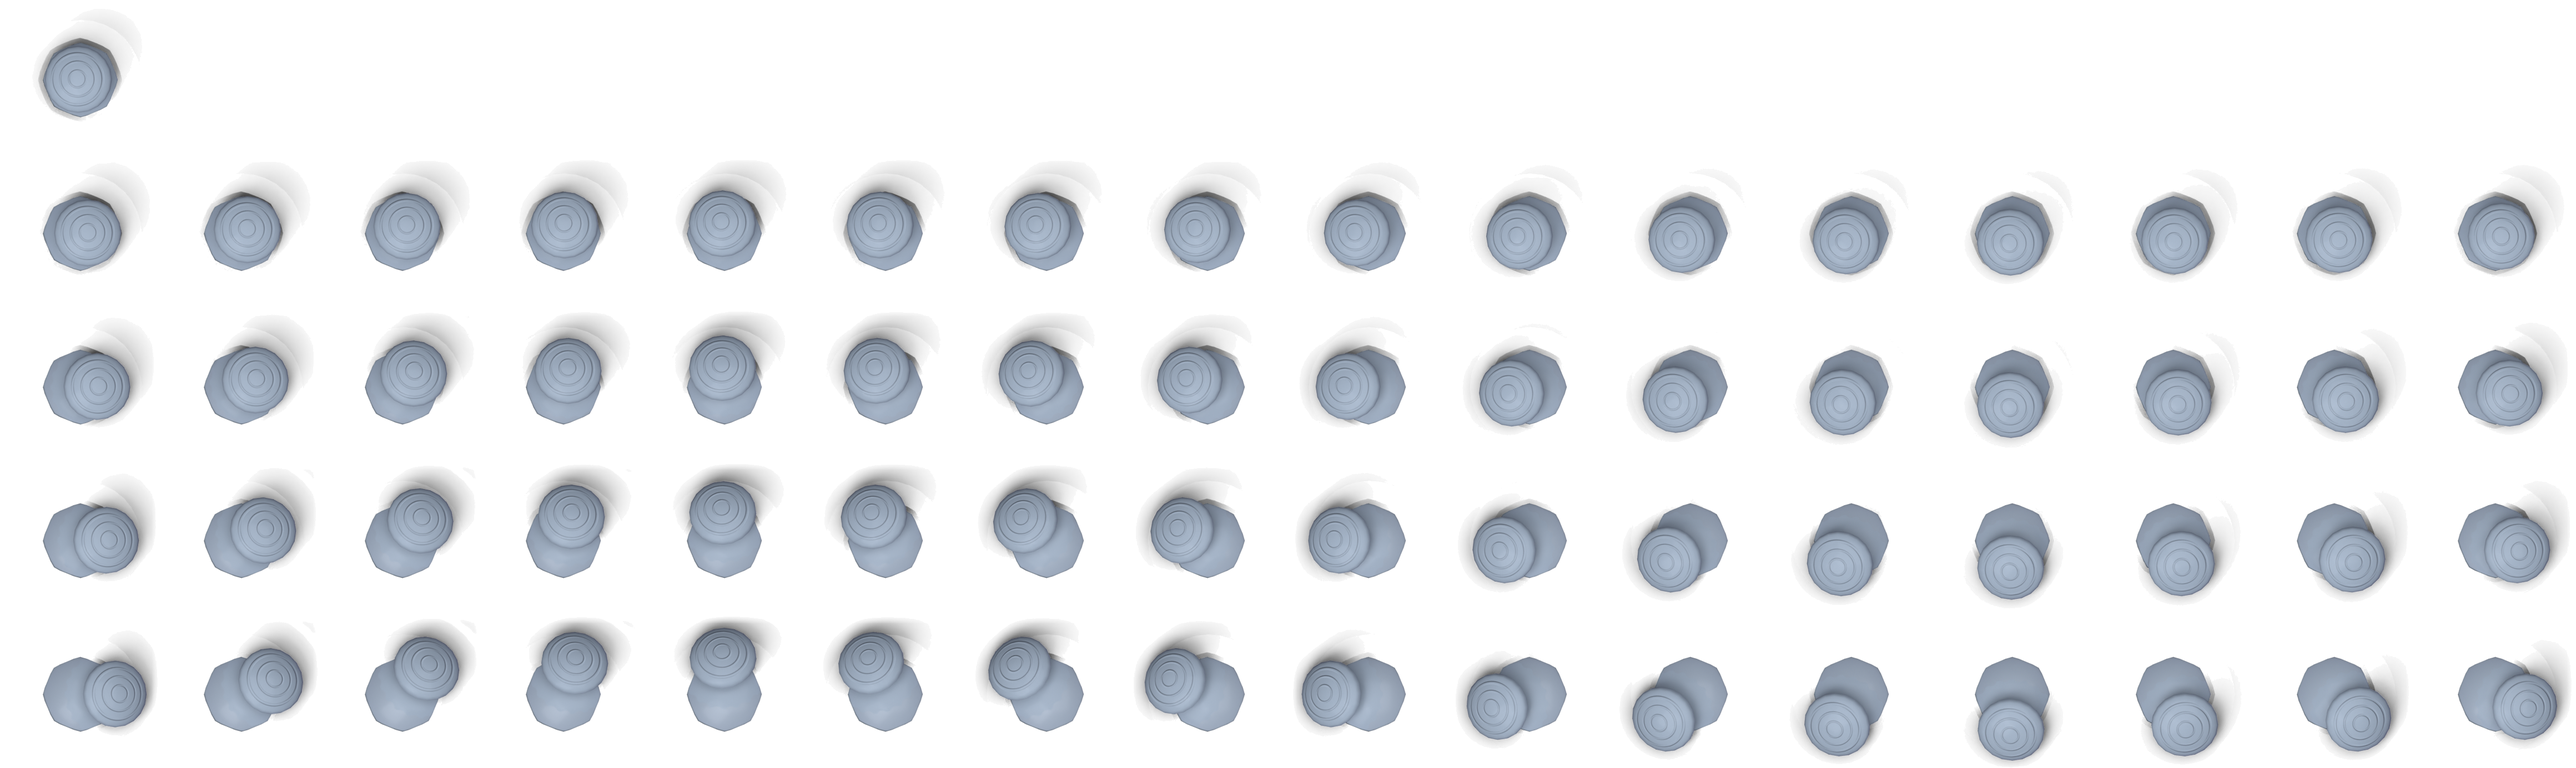
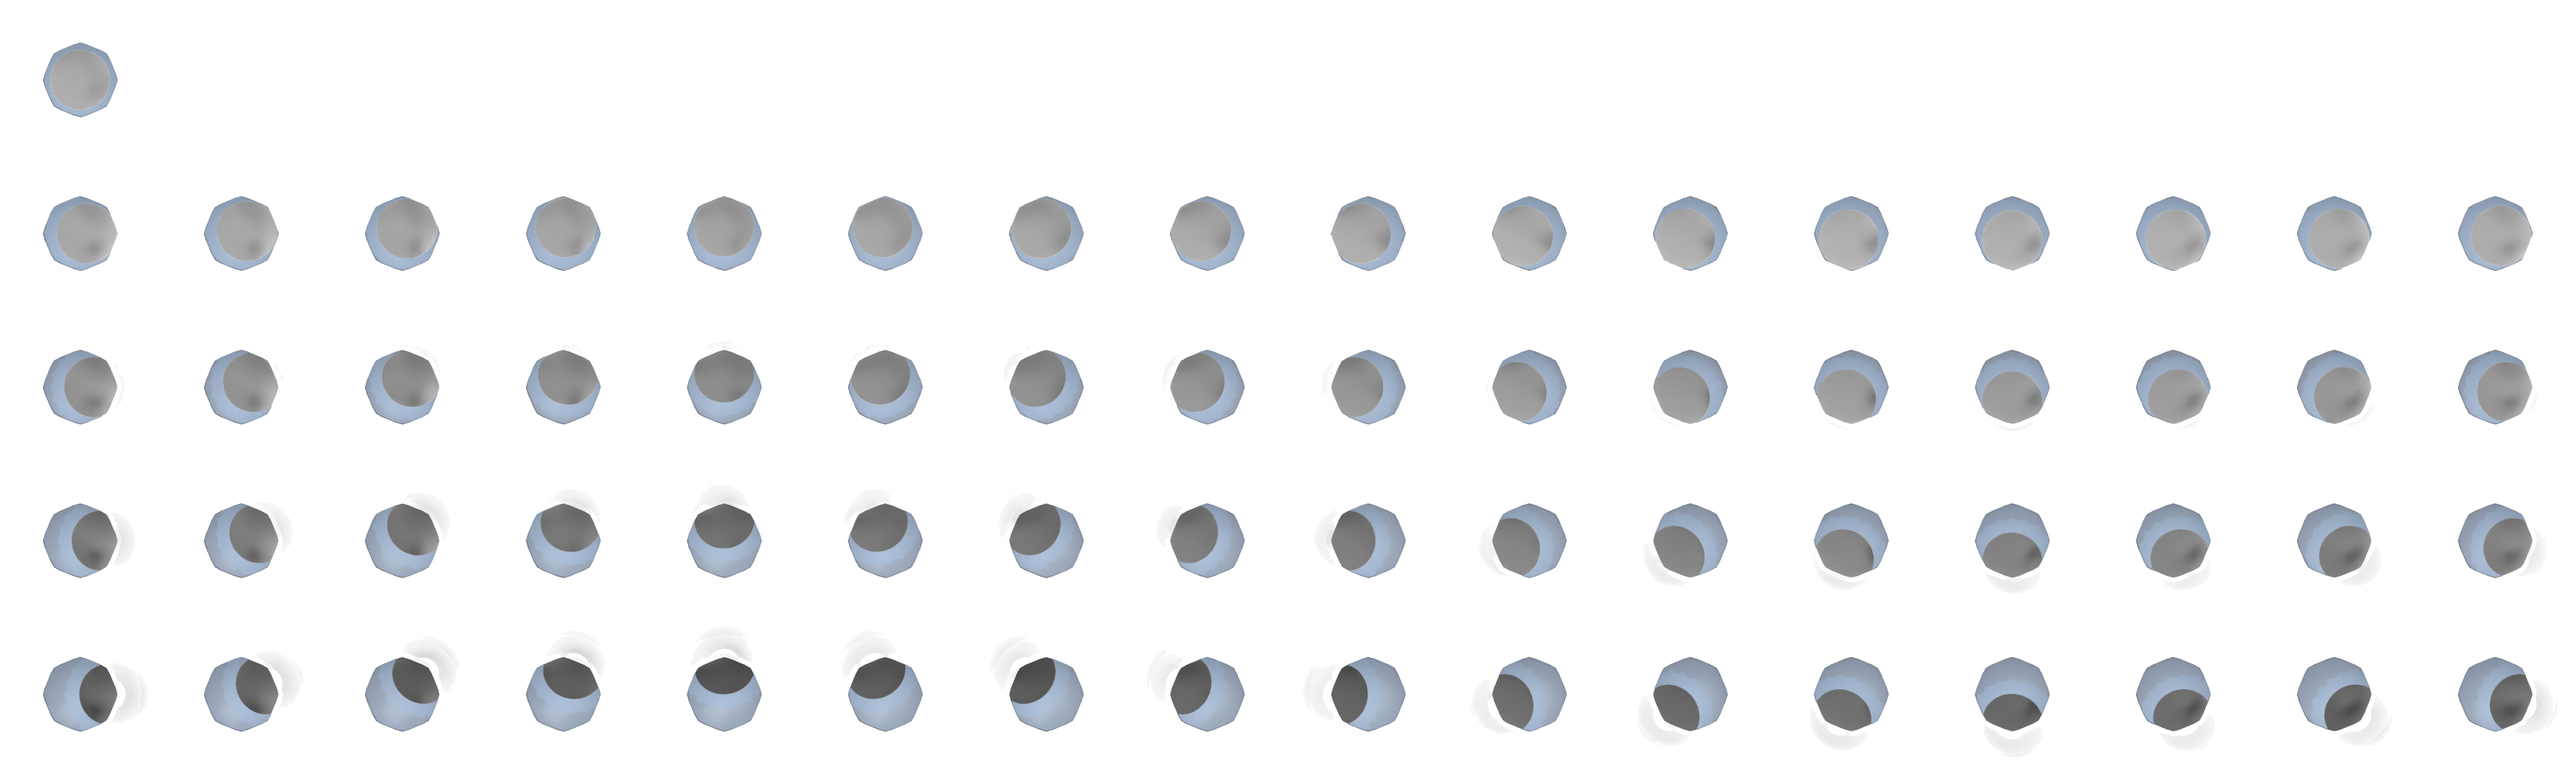
Settings: sticks glide with no wiggle; the red ring stays on the cap's top
The stick frames are rendered in two layers: the dome below the cap (with
the shadows), which turns in place, and the cap alone, with its shadow.
Settings blends the up to four frames round the stick's position in each
layer, the dome where it is and the cap moved so that its top (measured in
the render: kStickTops) lands on one point. Before, the nearest frame was
moved as a whole, so the dome jumped by up to 15 pixels at each change of
frame and the cap stepped every 22.5 degrees.

render_top.py writes both layers and sticks/tops.txt ("sticks-tops" only
measures); pack_sticks.ps1 packs both sheets (top_stick_cap_*.png,
resources 106 and 107) and prints kStickTops, and now writes into its own
folder under Windows PowerShell 5.1 too.

diff --git a/tools/padconfig/controller_view.cpp b/tools/padconfig/controller_view.cpp
@@ -124,33 +124,6 @@ REAL gate_at(REAL angle) {
     return std::cos(kSector) / std::cos(off - kSector);
 }
 
-// The geometry the stick frames were rendered with (art/render_top.py): the camera of the picture from above (looking
-// straight down from kCameraZ over (kCameraX, kCameraY), kFocal pixels of focal length, the picture 1000 x 659), and
-// each stick's root (the centre of its dome, where its bone turns) and the height of its cap's top, in model units.
-// The cap turns up to kMostTilt degrees at a notch.
-constexpr REAL kCameraX = 0.08f, kCameraY = -4.19f, kCameraZ = 195.5f, kFocal = 19.35f * (195.5f - 22.0f);
-constexpr REAL kMostTilt = 25.0f;
-struct StickGeometry {
-    REAL root_x, root_y, root_z, top_z;
-};
-constexpr StickGeometry kStickGeometry[] = {{-15.0f, 0.0f, 14.68f, 23.92f}, {7.57f, -11.25f, 13.2f, 21.23f}};
-
-// Where a stick's cap top is in the picture from above (its pixels) with the stick at (x, y) in its gate: the top turned
-// on the root towards (x, y) by kMostTilt degrees for each 1 of the way, then seen by the camera.
-PointF stick_top(int stick, REAL x, REAL y) {
-    const StickGeometry& s = kStickGeometry[stick];
-    const REAL h = s.top_z - s.root_z, length = std::sqrt(x * x + y * y);
-    REAL px = 0.0f, py = 0.0f, pz = h;
-    if (length > 0.0f) {
-        const REAL turn = kMostTilt * length * kPi / 180.0f;
-        px = x / length * h * std::sin(turn);
-        py = y / length * h * std::sin(turn);
-        pz = h * std::cos(turn);
-    }
-    const REAL depth = kCameraZ - (s.root_z + pz);
-    return PointF(500.0f + (s.root_x + px - kCameraX) * kFocal / depth, 329.5f - (s.root_y + py - kCameraY) * kFocal / depth);
-}
-
 // Where things are, in view units: the label columns `f` times their normal width (and the labels f times their normal
 // size) on both sides of the pictures, the whole scaled by `scale` to the area and centred across it.
 struct Geometry {
@@ -249,66 +222,100 @@ struct Painter {
         return at(tilted_rect(m), h->cx, h->cy);
     }
 
-    // A stick cap as the stick is held (x, y: in its gate, stick_in_gate()): the frame of its sheet nearest that
-    // position, moved so that the cap's top is exactly where the stick puts it (computed from the render's geometry), so
-    // the top glides with the stick and never jumps when the frame changes; with a red ring like a pressed button's round
-    // its top, stronger the further it is tilted.
+    // A stick cap as the stick is held (x, y: in its gate, stick_in_gate()). The sheets have frames at 4 tilts in 16
+    // directions; the stick is mostly between them, so the (up to) four frames round it are blended by how near each is:
+    // first the dome below the cap, where it is (it turns in place), then the cap, every frame moved so that its top
+    // (kStickTops, measured in the render) lands on the same point. The top glides with the stick and the shading turns
+    // smoothly, with no step from one frame to the next and nothing doubled. A red ring
+    // like a pressed button's rounds the top, stronger the further the stick is tilted.
     void draw_cap(const CapArt& cap, int index, float x, float y) {
-        Bitmap* sheet = art(cap.id);
+        Bitmap* dome_sheet = art(cap.id);
+        Bitmap* cap_sheet = art(cap.cap_id);
         Bitmap* picture = art(101);
-        if (sheet == nullptr || picture == nullptr) return;
-        // The frame nearest the stick; the one drawn last is kept until another is clearly nearer, so a stick resting
-        // between two frames does not flicker from one to the other.
-        const auto frame_tilt = [](int ring, int direction, REAL& fx, REAL& fy) {
-            const REAL fa = direction * 2.0f * kPi / kStickDirections;
-            const REAL fl = static_cast<REAL>(ring) / kStickRings * gate_at(fa);
-            fx = fl * std::cos(fa);
-            fy = fl * std::sin(fa);
-        };
+        if (dome_sheet == nullptr || cap_sheet == nullptr || picture == nullptr) return;
         const REAL length = std::sqrt(x * x + y * y);
-        int ring = 0, direction = 0;
+        // Where the stick is between the frames: tilt in rings (0 to kStickRings), direction in frame steps.
+        REAL ring_at = 0.0f, direction_at = 0.0f;
         if (length > 0.0f) {
-            const REAL angle = std::atan2(y, x);
-            ring = std::clamp(static_cast<int>(std::lround(length / gate_at(angle) * kStickRings)), 0, kStickRings);
-            direction = static_cast<int>(std::lround(angle / (2.0f * kPi) * kStickDirections));
-            direction = ((direction % kStickDirections) + kStickDirections) % kStickDirections;
+            REAL angle = std::atan2(y, x);
+            if (angle < 0.0f) angle += 2.0f * kPi;
+            ring_at = std::clamp(length / gate_at(angle) * kStickRings, 0.0f, static_cast<REAL>(kStickRings));
+            direction_at = angle / (2.0f * kPi) * kStickDirections;
         }
-        static int last_ring[2] = {}, last_direction[2] = {};
-        {
-            REAL bx, by, lx, ly;
-            frame_tilt(ring, direction, bx, by);
-            frame_tilt(last_ring[index], last_direction[index], lx, ly);
-            const REAL best = std::hypot(x - bx, y - by), kept = std::hypot(x - lx, y - ly);
-            if (kept < best + 0.05f) {
-                ring = last_ring[index];
-                direction = last_direction[index];
-            }
-            if (ring == 0) direction = 0;
-            last_ring[index] = ring;
-            last_direction[index] = direction;
+        const int r0 = std::min(static_cast<int>(ring_at), kStickRings - 1), d0 = static_cast<int>(direction_at);
+        const REAL tr = ring_at - r0, td = direction_at - d0;
+        struct Frame {
+            int ring, direction;
+            REAL weight;
+        };
+        Frame frames[4];
+        int count = 0;
+        const auto add = [&](int ring, int direction, REAL weight) {
+            if (weight <= 1.0f / 256.0f) return;
+            direction = ring == 0 ? 0 : direction % kStickDirections;
+            for (int i = 0; i < count; ++i)
+                if (frames[i].ring == ring && frames[i].direction == direction) {
+                    frames[i].weight += weight;
+                    return;
+                }
+            frames[count++] = {ring, direction, weight};
+        };
+        add(r0, d0, (1.0f - tr) * (1.0f - td));
+        add(r0, d0 + 1, (1.0f - tr) * td);
+        add(r0 + 1, d0, tr * (1.0f - td));
+        add(r0 + 1, d0 + 1, tr * td);
+        if (count == 0) add(0, 0, 1.0f);
+        std::sort(frames, frames + count, [](const Frame& a, const Frame& b) { return a.weight > b.weight; });
+        // The top now: the frames' own tops, blended the same way.
+        const auto top_of = [&](const Frame& f) {
+            const float* p = kStickTops[index][f.ring][f.direction];
+            return PointF(p[0], p[1]);
+        };
+        REAL total = 0.0f;
+        PointF now(0.0f, 0.0f);
+        for (int i = 0; i < count; ++i) {
+            const PointF p = top_of(frames[i]);
+            now.X += p.X * frames[i].weight;
+            now.Y += p.Y * frames[i].weight;
+            total += frames[i].weight;
         }
-        REAL fx, fy;
-        frame_tilt(ring, direction, fx, fy);
-        // Where the cap's top is in the picture's pixels: now, and in the frame drawn.
-        const PointF now = stick_top(index, x, y), in_frame = stick_top(index, fx, fy);
+        now.X /= total;
+        now.Y /= total;
         const REAL art_w = static_cast<REAL>(picture->GetWidth()), art_h = static_cast<REAL>(picture->GetHeight());
-        const REAL cell_w = static_cast<REAL>(sheet->GetWidth()) / kStickDirections;
-        const REAL cell_h = static_cast<REAL>(sheet->GetHeight()) / (kStickRings + 1);
+        const REAL cell_w = static_cast<REAL>(cap_sheet->GetWidth()) / kStickDirections;
+        const REAL cell_h = static_cast<REAL>(cap_sheet->GetHeight()) / (kStickRings + 1);
         const RectF r = top_rect(m);
         const REAL sx = r.Width / art_w, sy = r.Height / art_h;  // the picture's pixels to view units
-        // A frame's size from the sheet itself, at the picture's scale, so a sheet rendered again is never drawn at
-        // another size than its own.
-        const RectF box(r.X + (cap.x * art_w + now.X - in_frame.X) * sx, r.Y + (cap.y * art_h + now.Y - in_frame.Y) * sy,
-                        cell_w * sx, cell_h * sy);
-        g.DrawImage(sheet, box, direction * cell_w, ring * cell_h, cell_w, cell_h, UnitPixel);
+        // The heaviest frame opaque, each next one over it by its share of the weight drawn so far: together, each frame
+        // by its weight. A frame's size comes from the sheet itself, at the picture's scale.
+        const auto blend = [&](Bitmap* sheet, bool on_top) {
+            REAL drawn = 0.0f;
+            for (int i = 0; i < count; ++i) {
+                const Frame& f = frames[i];
+                drawn += f.weight;
+                const PointF own = top_of(f);
+                const REAL dx = on_top ? now.X - own.X : 0.0f, dy = on_top ? now.Y - own.Y : 0.0f;
+                const RectF box(r.X + (cap.x * art_w + dx) * sx, r.Y + (cap.y * art_h + dy) * sy, cell_w * sx, cell_h * sy);
+                const REAL source_x = f.direction * cell_w, source_y = f.ring * cell_h;
+                if (i == 0) {
+                    g.DrawImage(sheet, box, source_x, source_y, cell_w, cell_h, UnitPixel);
+                    continue;
+                }
+                ColorMatrix fade = {{{1, 0, 0, 0, 0}, {0, 1, 0, 0, 0}, {0, 0, 1, 0, 0}, {0, 0, 0, f.weight / drawn, 0}, {0, 0, 0, 0, 1}}};
+                ImageAttributes attributes;
+                attributes.SetColorMatrix(&fade);
+                g.DrawImage(sheet, box, source_x, source_y, cell_w, cell_h, UnitPixel, &attributes);
+            }
+        };
+        blend(dome_sheet, false);
+        blend(cap_sheet, true);
         if (length == 0.0f) return;
         const REAL amount = std::min(1.0f, length);
         const REAL radius = r.Width * cap.top;
         const PointF top(r.X + now.X * sx, r.Y + now.Y * sy);
         Pen ring_pen(Color(static_cast<BYTE>(90 + 120 * amount), 235, 45, 35), 3.0f);
         g.DrawEllipse(&ring_pen, top.X - radius, top.Y - radius, radius * 2.0f, radius * 2.0f);
-    }
-    void draw_pictures() {
+    }    void draw_pictures() {
         g.SetInterpolationMode(InterpolationModeHighQualityBicubic);
         g.SetPixelOffsetMode(PixelOffsetModeHalf);
         // Still sticks: the whole picture. A tilted one: the body without its caps, and the caps where the sticks are.

diff --git a/tools/padconfig/art/render_top.py b/tools/padconfig/art/render_top.py
@@ -170,7 +170,9 @@ others = [o for o in scene.objects if o.type == 'MESH' and o not in caps.values(
 # only in the area round the stick: sticks/<main|c>_0.png (the middle) and sticks/<main|c>_<ring>_<direction>.png. The
 # rest of the controller is a shadow catcher: not drawn, but it hides what tilts under the shell, and the cap's shadow
 # on it is in the frame (drawn over the body without caps, the stick casts its shadow as it moves).
-# "sticks-test": a few of those frames only.
+# Each frame in two layers: <key>_<ring>_<direction>.png the dome and the shadows, cap_<...>.png the cap alone; and
+# sticks/tops.txt. "sticks-test": a few of those frames only. "sticks-tops": no render; writes sticks/tops.txt, where the top of the cap
+# (its middle, at its highest point) is in the picture's pixels in each frame, for art/hotspots.inc (kStickTops).
 DIRECTIONS, RINGS, MOST_TILT = 16, 4, 25.0
 
 def dome_centre(cap):
@@ -254,6 +256,18 @@ def stick_frames():
             part.matrix_world = world  # stays where it is; follows the bone from now on
     rig.hide_render = True
     os.makedirs(os.path.join(out, "sticks"), exist_ok=True)
+    # The top of each cap, in the cap's own coordinates: its middle, at its highest point.
+    top_local, tops = {}, []
+    for key, cap in caps.items():
+        # The middle of the top disc (the vertices within 0.3 units of the highest), measured in the world at rest (the
+        # import turned the mesh's own axes): the mesh's average would lean to whichever side has more vertices.
+        world = [cap.matrix_world @ v.co for v in cap.data.vertices]
+        hi = max(c.z for c in world)
+        disc = [c for c in world if c.z > hi - 0.3]
+        top = Vector(((min(c.x for c in disc) + max(c.x for c in disc)) / 2.0,
+                      (min(c.y for c in disc) + max(c.y for c in disc)) / 2.0, hi))
+        top_local[key] = cap.matrix_world.inverted() @ top
+        print("TOP", key, tuple(round(v, 2) for v in top), len(disc), "vertices")
     scene.render.use_border = True
     scene.render.use_crop_to_border = True
     for key, cap in caps.items():
@@ -284,13 +298,31 @@ def stick_frames():
             else:
                 pose.rotation_quaternion = Quaternion()
             bpy.context.view_layer.update()
-            scene.render.filepath = os.path.join(out, "sticks", name)
-            bpy.ops.render.render(write_still=True)
+            from bpy_extras.object_utils import world_to_camera_view
+            p = world_to_camera_view(scene, scene.camera, cap.matrix_world @ top_local[key])
+            tops.append("%s %s %.3f %.3f" % (key, name[:-4], p.x * scene.render.resolution_x,
+                                             (1.0 - p.y) * scene.render.resolution_y))
+            if only == "sticks-tops":
+                continue
+            # Two layers, so the program can move the cap onto the stick's top while the dome below stays where it is:
+            # the dome (the cap unseen, casting no shadow), then the cap with its shadow on the body (the dome a holdout:
+            # where it is in front, the dome layer shows through).
+            for layer in ("dome", "cap"):
+                cap.visible_camera = cap.visible_shadow = layer == "cap"
+                domes[key].is_holdout = layer == "cap"
+                domes[key].visible_shadow = layer == "dome"
+                scene.render.filepath = os.path.join(out, "sticks", name if layer == "dome" else "cap_" + name)
+                bpy.ops.render.render(write_still=True)
+            domes[key].is_holdout = False
+            domes[key].visible_shadow = cap.visible_shadow = True
+            cap.visible_camera = domes[key].visible_camera = True
         pose.rotation_quaternion = Quaternion()
+    with open(os.path.join(out, "sticks", "tops.txt"), "w") as fh:
+        fh.write("\n".join(tops) + "\n")
     print("WROTE sticks")
 if only in ("all", "full"):
     render("top_full.png")
-if only in ("sticks", "sticks-test"):
+if only in ("sticks", "sticks-test", "sticks-tops"):
     stick_frames()
 if only in ("all", "layers"):
     render("top_body.png", hide=list(caps.values()))
